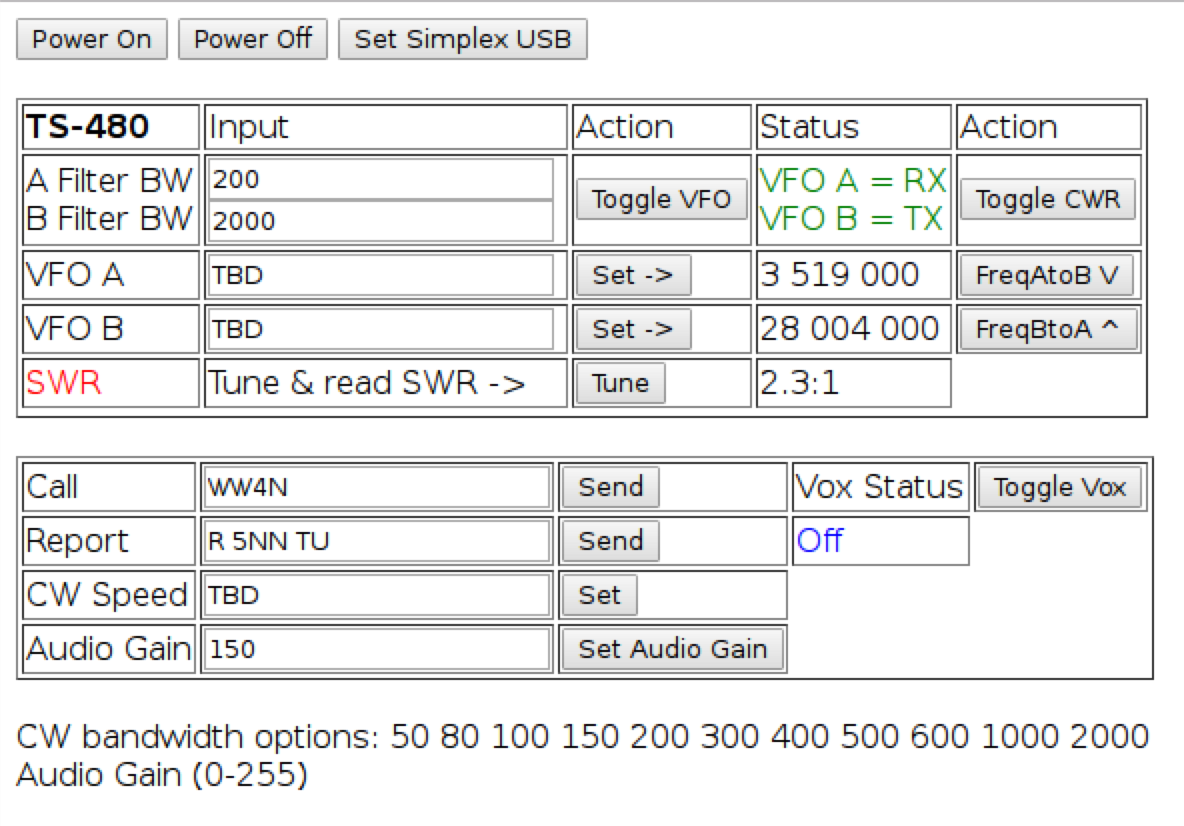
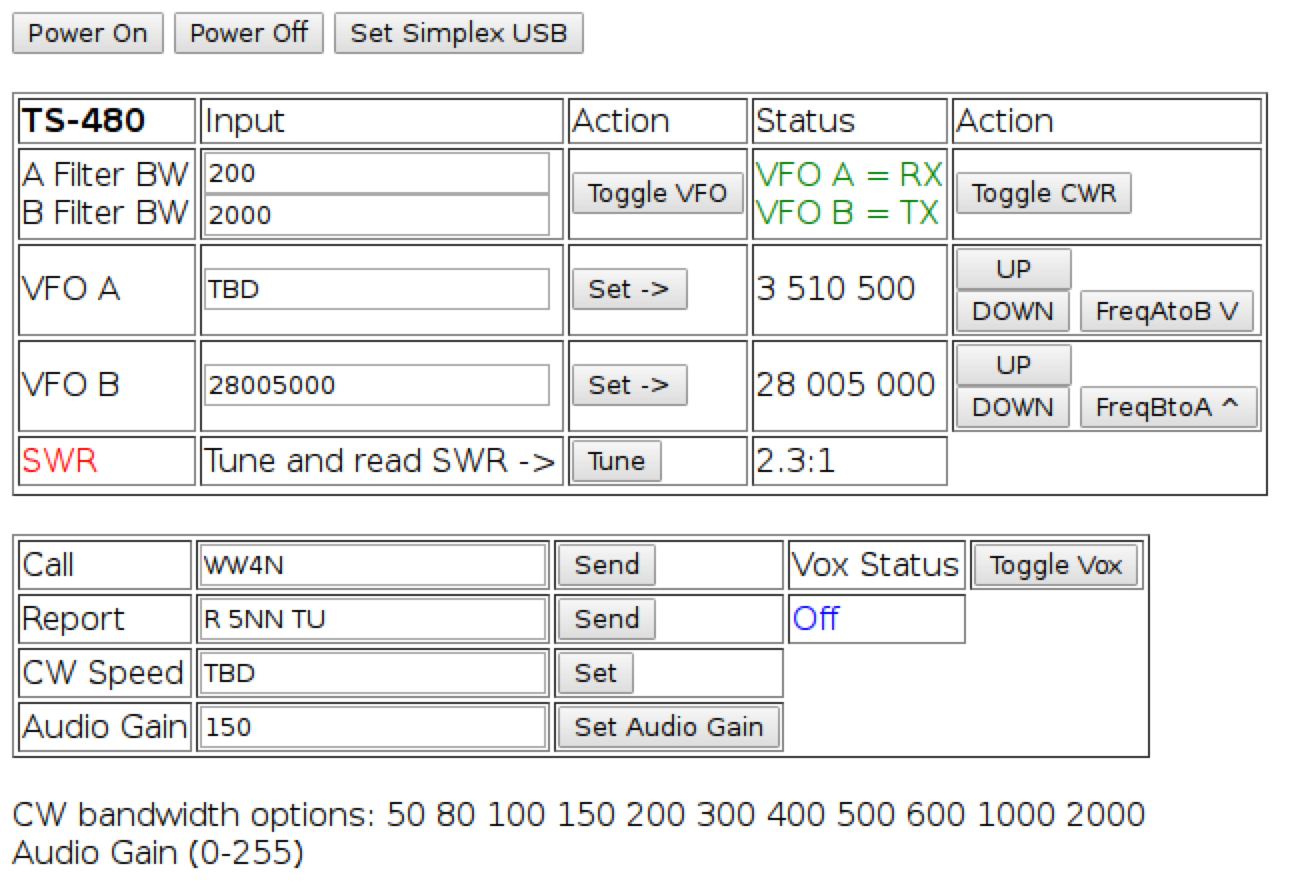
adding fine tuning buttons

diff --git a/remote.html b/remote.html
@@ -101,17 +101,42 @@ function tuneListener () {
         document.getElementById("swrInfo").innerHTML = swr + ':1';
 }
 
+function FineTune (vfo,direction) {
+	var fReq = new XMLHttpRequest();
+        if (vfo == 'a') {
+            if (direction == 'up') {
+                freqa += 100
+            }
+            else {
+                freqa -= 100
+            }
+	    document.getElementById("scrollDivA").innerHTML = numberWithSpaces(freqa);
+	    paddedFreq = pad(freqa,11);
+	    fReq.open("GET", base_url + "/s?fa=" + paddedFreq);
+        }
+        if (vfo == 'b') {
+            if (direction == 'up') {
+                freqb += 100
+            }
+            else {
+                freqb -= 100
+            }
+	    document.getElementById("scrollDivB").innerHTML = numberWithSpaces(freqb);
+	    paddedFreq = pad(freqb,11);
+	    fReq.open("GET", base_url + "/s?fb=" + paddedFreq);
+        }
+	fReq.send();
+}
+
 function MouseWheelHandlerA(evt) {
 	//console.log(evt.deltaY);
 	freqa += evt.deltaY;
 	freqa = parseInt(freqa);
 	document.getElementById("scrollDivA").innerHTML = numberWithSpaces(freqa);
-
 	paddedFreq = pad(freqa,11);
 	var fReq = new XMLHttpRequest();
 	fReq.open("GET", base_url + "/s?fa=" + paddedFreq);
 	fReq.send();
-
 }
 
 
@@ -120,12 +145,10 @@ function MouseWheelHandlerB(evt) {
 	freqb += evt.deltaY;
 	freqb = parseInt(freqb);
 	document.getElementById("scrollDivB").innerHTML = numberWithSpaces(freqb);
-
 	paddedFreq = pad(freqb,11);
 	var fReq = new XMLHttpRequest();
 	fReq.open("GET", base_url + "/s?fb=" + paddedFreq);
 	fReq.send();
-
 }
 
 function pad(num, size) {
@@ -288,17 +311,23 @@ oReq.send();
 <td><input type="text" name="setVFOA" id="setVFOA" value="TBD"></td>
 <td><input type="button" value="Set ->" onClick="javascript:SetVFOA(); javascript:refresh();"></td>
 <td> <div id="scrollDivA"></div> </td>
-<td><input type="button" value="FreqAtoB V" onClick="javascript:AtoB(); javascript:refresh();"></td>
+<td><input type="button" value="   UP   " onClick="javascript:FineTune(vfo='a',direction='up')">
+<br>
+<input type="button" value="DOWN" onClick="javascript:FineTune(vfo='a',direction='down')">
+<input type="button" value="FreqAtoB V" onClick="javascript:AtoB(); javascript:refresh();"></td>
 </tr>
 <tr>
 <td>VFO B</td>
 <td><input type="text" name="setVFOB" id="setVFOB" value="TBD"></td>
 <td><input type="button" value="Set ->" onClick="javascript:SetVFOB(); javascript:refresh();"></td>
 <td> <div id="scrollDivB"></div> </td>
-<td><input type="button" value="FreqBtoA ^" onClick="javascript:BtoA(); javascript:refresh();"></td>
+<td><input type="button" value="   UP   " onClick="javascript:FineTune(vfo='b',direction='up')">
+<br>
+<input type="button" value="DOWN" onClick="javascript:FineTune(vfo='b',direction='down')">
+<input type="button" value="FreqBtoA ^" onClick="javascript:BtoA(); javascript:refresh();"></td>
 <tr>
 <td> <div id="swrColor"></div> </td>
-<td>Tune & read SWR -></td>
+<td>Tune and read SWR -></td>
 <td> <input type="button" value="Tune" onClick="javascript:tune()"> </td>
 <td> <div id="swrInfo"></div> </td>
 <tr>

diff --git a/README.md b/README.md
@@ -25,6 +25,9 @@ When remote.html loads, it will set the transciever to the following:
 ### VFO (Set ->)
  - Set the frequency of the VFO from the input box
 
+### Fine Tuning (UP / DOWN)
+ - Increment or Decrement this VFO frequency by 100Hz
+
 ### Clone (FreqAtoB or FreqBtoA)
  - "Pushes" one VFO frequency into the other VFO
 
